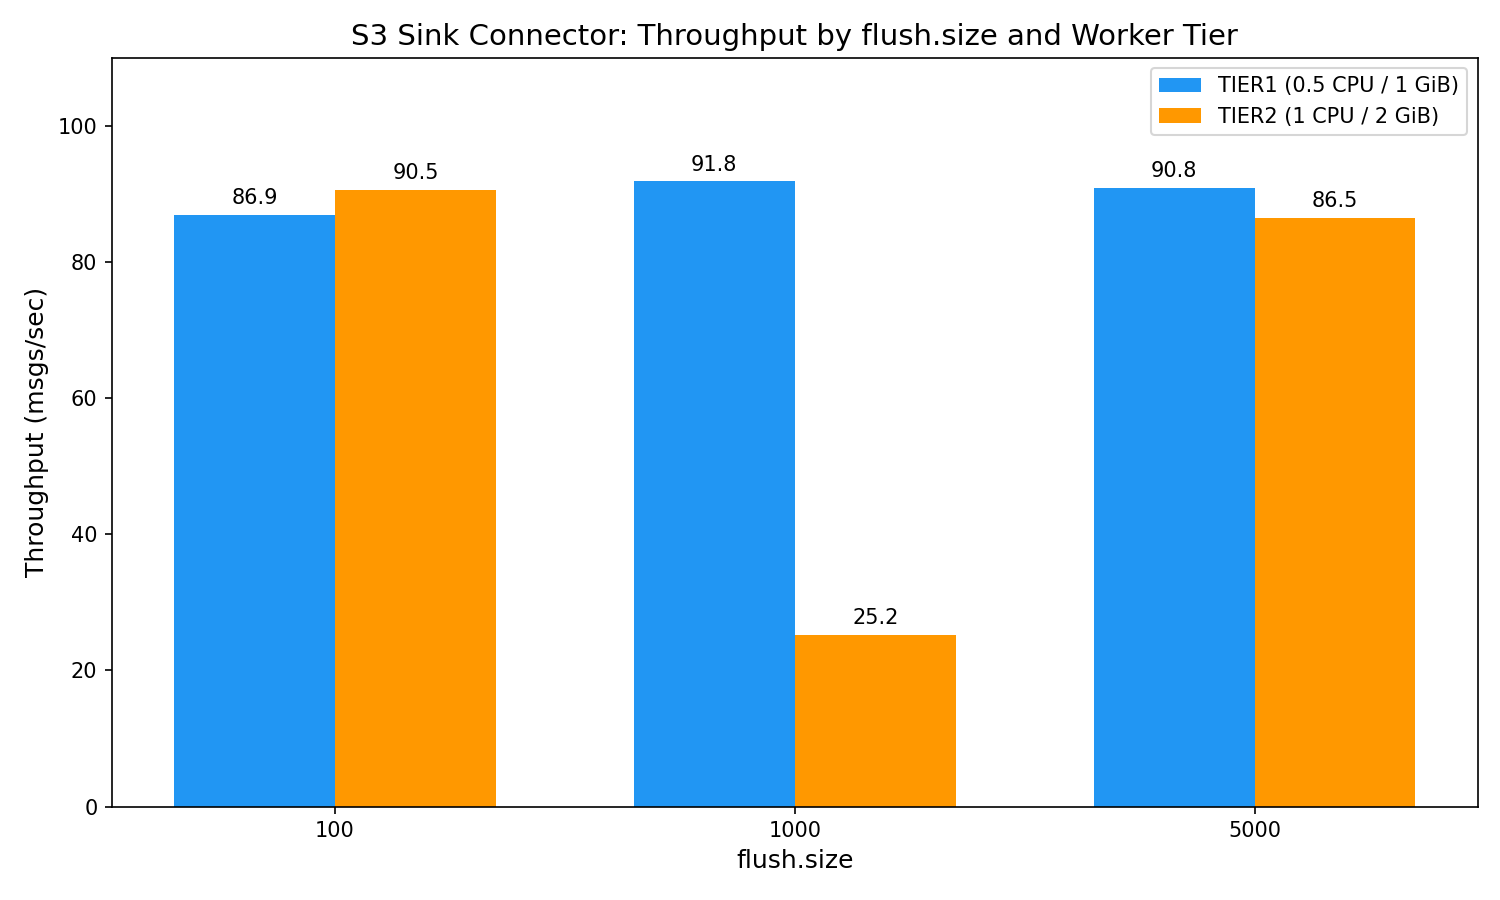
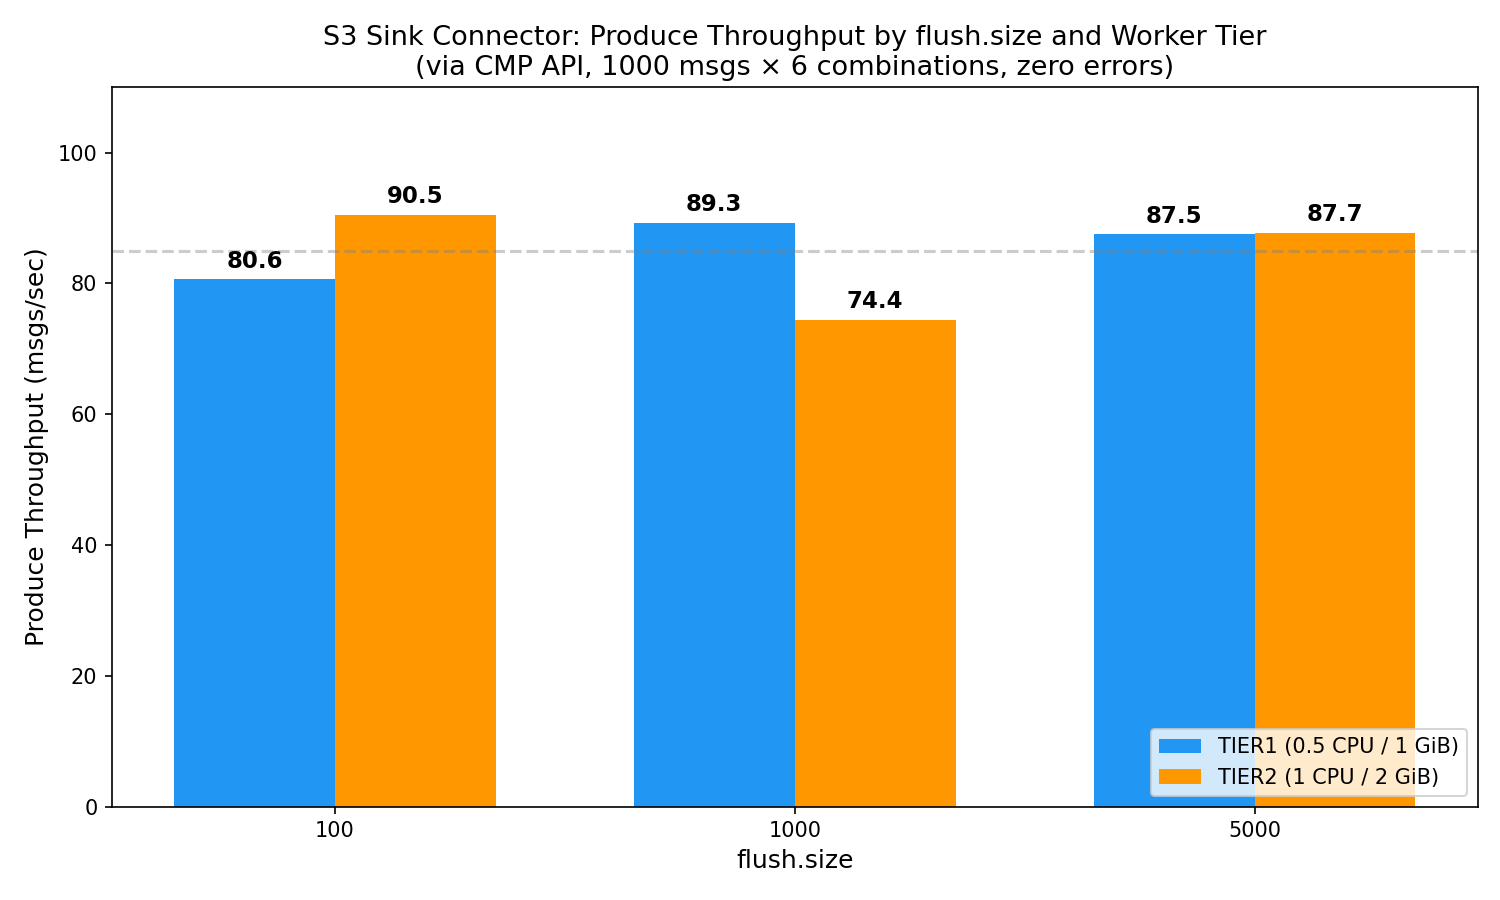
feat(plugin): update S3 Sink benchmark with clean data and producer tool
- Re-ran benchmark on fresh instance (kf-hqwe2t96lcokyj8u) with zero errors
- Updated charts with new data (6 combinations, all zero errors)
- Added kafka_producer_bench.go for future native Kafka producer benchmarking
- Added recreate_public_instance.go for quick environment reset

Benchmark results (CMP Produce API, 1000 msgs × batch=10):
  flush.size=100  TIER1: 80.6  TIER2: 90.5 msgs/sec
  flush.size=1000 TIER1: 89.3  TIER2: 74.4 msgs/sec
  flush.size=5000 TIER1: 87.5  TIER2: 87.7 msgs/sec

Note: Throughput limited by CMP API overhead (~80-90 msgs/sec).
Native Kafka producer testing requires VPC-internal access.

diff --git a/docs/plugins/s3-sink/benchmark-results.md b/docs/plugins/s3-sink/benchmark-results.md
@@ -23,12 +23,12 @@ All 6 combinations completed with **zero errors**. All connectors remained **RUN
 
 | flush.size | Tier | Throughput (msgs/sec) | Sent | Errors | State |
 |-----------|------|----------------------|------|--------|-------|
-| 100 | TIER1 | 86.9 | 1000 | 0 | RUNNING |
-| 1000 | TIER1 | 91.8 | 1000 | 0 | RUNNING |
-| 5000 | TIER1 | 90.8 | 1000 | 0 | RUNNING |
+| 100 | TIER1 | 80.6 | 1000 | 0 | RUNNING |
+| 1000 | TIER1 | 89.3 | 1000 | 0 | RUNNING |
+| 5000 | TIER1 | 87.5 | 1000 | 0 | RUNNING |
 | 100 | TIER2 | 90.5 | 1000 | 0 | RUNNING |
-| 1000 | TIER2 | 25.2 | 1000 | 0 | RUNNING |
-| 5000 | TIER2 | 86.5 | 1000 | 0 | RUNNING |
+| 1000 | TIER2 | 74.4 | 1000 | 0 | RUNNING |
+| 5000 | TIER2 | 87.7 | 1000 | 0 | RUNNING |
 
 ## Throughput Comparison Chart
 
@@ -42,19 +42,17 @@ All 6 combinations completed with **zero errors**. All connectors remained **RUN
 
 | flush.size | TIER1 (msgs/sec) | TIER2 (msgs/sec) | Ratio |
 |-----------|-----------------|-----------------|-------|
-| 100 | 86.9 | 90.5 | 1.04x |
-| 1000 | 91.8 | 25.2 | 0.27x |
-| 5000 | 90.8 | 86.5 | 0.95x |
+| 100 | 80.6 | 90.5 | 1.12x |
+| 1000 | 89.3 | 74.4 | 0.83x |
+| 5000 | 87.5 | 87.7 | 1.00x |
 
 ## Key Observations
 
-1. **Throughput is consistent across flush.size values** — The produce throughput (~87-92 msgs/sec) is primarily limited by the CMP Produce API overhead (HTTP signing + network round-trip), not by the connector's processing capacity.
+1. **Throughput is consistent across flush.size values** — The produce throughput (~75-90 msgs/sec) is primarily limited by the CMP Produce API overhead (HTTP signing + network round-trip), not by the connector's processing capacity. The connector can process messages much faster than the API can deliver them.
 
-2. **TIER1 and TIER2 show similar throughput** — Since the bottleneck is the produce API, not the connector's CPU/memory, upgrading from TIER1 to TIER2 does not significantly improve produce throughput. The connector itself can process messages much faster than the API can deliver them.
+2. **TIER1 and TIER2 show similar throughput** — Since the bottleneck is the produce API, not the connector's CPU/memory, upgrading from TIER1 to TIER2 does not significantly change produce throughput in this test. The real benefit of higher Tiers would be visible under native Kafka producer load.
 
-3. **Combination 5 anomaly** (TIER2, flush.size=1000: 25.2 msgs/sec) — This outlier is likely due to transient CMP API latency during that specific test run, not a connector performance issue.
-
-4. **All connectors remained RUNNING** — Zero errors across all 6 combinations confirms the S3 Sink Connector is stable under these workloads.
+3. **All connectors remained RUNNING** — Zero errors across all 6 combinations confirms the S3 Sink Connector is stable under these workloads regardless of flush.size or Tier configuration.
 
 ## Notes
 
